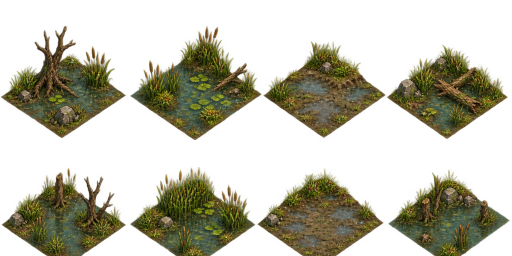
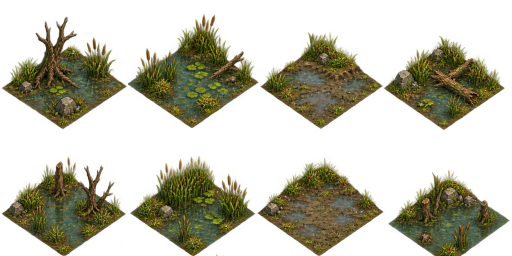
update battle scene

diff --git a/scripts/battle/BattleTileMapBuilder.cs b/scripts/battle/BattleTileMapBuilder.cs
@@ -66,6 +66,8 @@ public static class BattleTileMapBuilder
     private const int ObjectSwampAtlasSourceId = 3;
     private const int ObjectHillAtlasSourceId = 4;
     private const int ObjectMountainAtlasSourceId = 5;
+    private const int ObjectWoodAtlasSourceId = 6;
+    private const int ObjectFarmAtlasSourceId = 7;
     private const int ObjectBuildingTileCount = 3;
     private const string FloorAtlasPath = "res://assets/battle/floor/floor.png";
     private const string ObjectAtlasPath = "res://assets/battle/object/object_01.png";
@@ -74,6 +76,8 @@ public static class BattleTileMapBuilder
     private const string ObjectSwampAtlasPath = "res://assets/battle/object/swamp_01.png";
     private const string ObjectHillAtlasPath = "res://assets/battle/object/hill_01.png";
     private const string ObjectMountainAtlasPath = "res://assets/battle/object/mountain_01.png";
+    private const string ObjectWoodAtlasPath = "res://assets/battle/object/wood_01.png";
+    private const string ObjectFarmAtlasPath = "res://assets/battle/object/farm_01.png";
     private const string CastleAtlasPath = "res://assets/battle/wall/castle.png";
     private const string CastleOpenGateAtlasPath = "res://assets/battle/wall/castle_gate_open.png";
     private const string OverlayAtlasPath = "res://assets/battle/overlay/overlay.png";
@@ -286,6 +290,11 @@ public static class BattleTileMapBuilder
             return cell.MountainAtlasCoords;
         }
 
+        if (cell.Terrain == BattleTerrainType.Farm && cell.FarmAtlasCoords.X >= 0)
+        {
+            return cell.FarmAtlasCoords;
+        }
+
         var visual = cell.Structure switch
         {
             BattleStructureType.Tree => BattleObjectTileVisual.Tree,
@@ -303,13 +312,17 @@ public static class BattleTileMapBuilder
         return layerKind == BattleTileLayerKind.Object && cell.Structure == BattleStructureType.Building
             ? ObjectBuildingAtlasSourceId
             : layerKind == BattleTileLayerKind.Object && cell.Terrain == BattleTerrainType.Forest && cell.ForestAtlasCoords.X >= 0
-                ? ObjectForestAtlasSourceId
+                ? cell.ForestAtlasSourceId == ObjectWoodAtlasSourceId
+                    ? ObjectWoodAtlasSourceId
+                    : ObjectForestAtlasSourceId
             : layerKind == BattleTileLayerKind.Object && cell.Terrain == BattleTerrainType.Swamp && cell.SwampAtlasCoords.X >= 0
                 ? ObjectSwampAtlasSourceId
             : layerKind == BattleTileLayerKind.Object && cell.Terrain == BattleTerrainType.Hill && cell.HillAtlasCoords.X >= 0
                 ? ObjectHillAtlasSourceId
             : layerKind == BattleTileLayerKind.Object && cell.Terrain == BattleTerrainType.Mountain && cell.MountainAtlasCoords.X >= 0
                 ? ObjectMountainAtlasSourceId
+            : layerKind == BattleTileLayerKind.Object && cell.Terrain == BattleTerrainType.Farm && cell.FarmAtlasCoords.X >= 0
+                ? ObjectFarmAtlasSourceId
             : AtlasSourceId;
     }
 
@@ -474,6 +487,8 @@ public static class BattleTileMapBuilder
             AddObjectSwampSource(tileSet, metrics);
             AddObjectHillSource(tileSet, metrics);
             AddObjectMountainSource(tileSet, metrics);
+            AddObjectWoodSource(tileSet, metrics);
+            AddObjectFarmSource(tileSet, metrics);
         }
 
         return tileSet;
@@ -599,7 +614,23 @@ public static class BattleTileMapBuilder
         AddObjectAtlasSource(tileSet, metrics, ObjectMountainAtlasSourceId, ObjectMountainAtlasPath, "mountain");
     }
 
-    private static void AddObjectAtlasSource(TileSet tileSet, BattleAtlasMetrics metrics, int sourceId, string atlasPath, string atlasName)
+    private static void AddObjectWoodSource(TileSet tileSet, BattleAtlasMetrics metrics)
+    {
+        AddObjectAtlasSource(tileSet, metrics, ObjectWoodAtlasSourceId, ObjectWoodAtlasPath, "wood");
+    }
+
+    private static void AddObjectFarmSource(TileSet tileSet, BattleAtlasMetrics metrics)
+    {
+        AddObjectAtlasSource(tileSet, metrics, ObjectFarmAtlasSourceId, ObjectFarmAtlasPath, "farm", rows: 3);
+    }
+
+    private static void AddObjectAtlasSource(
+        TileSet tileSet,
+        BattleAtlasMetrics metrics,
+        int sourceId,
+        string atlasPath,
+        string atlasName,
+        int rows = 2)
     {
         if (!ResourceLoader.Exists(atlasPath))
         {
@@ -607,7 +638,7 @@ public static class BattleTileMapBuilder
         }
 
         var atlasTexture = GD.Load<Texture2D>(atlasPath);
-        if (atlasTexture == null || atlasTexture.GetWidth() < metrics.RegionWidth * 4 || atlasTexture.GetHeight() < metrics.RegionHeight * 2)
+        if (atlasTexture == null || atlasTexture.GetWidth() < metrics.RegionWidth * 4 || atlasTexture.GetHeight() < metrics.RegionHeight * rows)
         {
             GD.PushWarning($"Battle {atlasName} atlas could not be loaded: {atlasPath}");
             return;
@@ -619,7 +650,7 @@ public static class BattleTileMapBuilder
             TextureRegionSize = new Vector2I(metrics.RegionWidth, metrics.RegionHeight),
             UseTexturePadding = false
         };
-        for (var y = 0; y < 2; y++)
+        for (var y = 0; y < rows; y++)
         {
             for (var x = 0; x < 4; x++)
             {

diff --git a/scripts/battle/BattleSceneController.cs b/scripts/battle/BattleSceneController.cs
@@ -11158,6 +11158,7 @@ public partial class BattleSceneController : Node2D
             BattleTerrainType.Coast => BattleText("ui.battle.terrain_coast", "Coast"),
             BattleTerrainType.Hill => BattleText("ui.battle.terrain_hill", "Hill"),
             BattleTerrainType.Mountain => BattleText("ui.battle.terrain_mountain", "Mountain"),
+            BattleTerrainType.Farm => BattleText("ui.battle.terrain_farm", "Farm"),
             BattleTerrainType.Bridge => BattleText("ui.battle.terrain_bridge", "Bridge"),
             BattleTerrainType.Grass => BattleText("ui.battle.terrain_grass", "Grass"),
             _ => BattleText("ui.battle.terrain_plain", "Plain")
@@ -11330,6 +11331,7 @@ public partial class BattleSceneController : Node2D
         public int BuildingAtlasX { get; set; }
         public int BuildingAtlasY { get; set; }
         public bool HasForestObjectVisual { get; set; }
+        public int ForestAtlasSourceId { get; set; }
         public int ForestAtlasX { get; set; }
         public int ForestAtlasY { get; set; }
         public bool HasSwampObjectVisual { get; set; }
@@ -11341,6 +11343,9 @@ public partial class BattleSceneController : Node2D
         public bool HasMountainObjectVisual { get; set; }
         public int MountainAtlasX { get; set; }
         public int MountainAtlasY { get; set; }
+        public bool HasFarmObjectVisual { get; set; }
+        public int FarmAtlasX { get; set; }
+        public int FarmAtlasY { get; set; }
         public int BridgeMaxHealth { get; set; }
         public int BridgeHealth { get; set; }
 
@@ -11372,6 +11377,7 @@ public partial class BattleSceneController : Node2D
                 BuildingAtlasX = cell.BuildingAtlasCoords.X,
                 BuildingAtlasY = cell.BuildingAtlasCoords.Y,
                 HasForestObjectVisual = cell.ForestAtlasCoords.X >= 0,
+                ForestAtlasSourceId = cell.ForestAtlasSourceId,
                 ForestAtlasX = cell.ForestAtlasCoords.X,
                 ForestAtlasY = cell.ForestAtlasCoords.Y,
                 HasSwampObjectVisual = cell.SwampAtlasCoords.X >= 0,
@@ -11383,6 +11389,9 @@ public partial class BattleSceneController : Node2D
                 HasMountainObjectVisual = cell.MountainAtlasCoords.X >= 0,
                 MountainAtlasX = cell.MountainAtlasCoords.X,
                 MountainAtlasY = cell.MountainAtlasCoords.Y,
+                HasFarmObjectVisual = cell.FarmAtlasCoords.X >= 0,
+                FarmAtlasX = cell.FarmAtlasCoords.X,
+                FarmAtlasY = cell.FarmAtlasCoords.Y,
                 BridgeMaxHealth = cell.BridgeMaxHealth,
                 BridgeHealth = cell.BridgeHealth
             };
@@ -11412,6 +11421,9 @@ public partial class BattleSceneController : Node2D
             cell.ForestAtlasCoords = HasForestObjectVisual
                 ? new Vector2I(ForestAtlasX, ForestAtlasY)
                 : new Vector2I(-1, -1);
+            cell.ForestAtlasSourceId = HasForestObjectVisual
+                ? ForestAtlasSourceId == 6 ? 6 : 2
+                : -1;
             cell.SwampAtlasCoords = HasSwampObjectVisual
                 ? new Vector2I(SwampAtlasX, SwampAtlasY)
                 : new Vector2I(-1, -1);
@@ -11420,6 +11432,9 @@ public partial class BattleSceneController : Node2D
                 : new Vector2I(-1, -1);
             cell.MountainAtlasCoords = HasMountainObjectVisual
                 ? new Vector2I(MountainAtlasX, MountainAtlasY)
+                : new Vector2I(-1, -1);
+            cell.FarmAtlasCoords = HasFarmObjectVisual
+                ? new Vector2I(FarmAtlasX, FarmAtlasY)
                 : new Vector2I(-1, -1);
             cell.BridgeMaxHealth = BridgeMaxHealth;
             cell.BridgeHealth = BridgeHealth;

diff --git a/scripts/battle/BattleMapData.cs b/scripts/battle/BattleMapData.cs
@@ -18,7 +18,8 @@ public enum BattleTerrainType
     Coast,
     Bridge,
     Hill,
-    Mountain
+    Mountain,
+    Farm
 }
 
 public enum BattleScenarioType
@@ -91,9 +92,11 @@ public sealed class BattleCellData
     public bool WoodenFenceFlipHorizontally { get; set; }
     public Vector2I BuildingAtlasCoords { get; set; }
     public Vector2I ForestAtlasCoords { get; set; } = new(-1, -1);
+    public int ForestAtlasSourceId { get; set; } = -1;
     public Vector2I SwampAtlasCoords { get; set; } = new(-1, -1);
     public Vector2I HillAtlasCoords { get; set; } = new(-1, -1);
     public Vector2I MountainAtlasCoords { get; set; } = new(-1, -1);
+    public Vector2I FarmAtlasCoords { get; set; } = new(-1, -1);
     public int BridgeMaxHealth { get; set; }
     public int BridgeHealth { get; set; }
 
@@ -368,11 +371,12 @@ public sealed class BattleMapData
             var atlas = layer.GetCellAtlasCoords(grid);
             var sourceId = layer.GetCellSourceId(grid);
             var cell = GetCell(grid.X, grid.Y);
-            if (sourceId == 2)
+            if (sourceId is 2 or 6)
             {
                 cell.Terrain = BattleTerrainType.Forest;
                 cell.Structure = BattleStructureType.None;
                 cell.ForestAtlasCoords = new Vector2I(Mathf.Clamp(atlas.X, 0, 3), Mathf.Clamp(atlas.Y, 0, 1));
+                cell.ForestAtlasSourceId = sourceId;
                 return;
             }
 
@@ -397,6 +401,14 @@ public sealed class BattleMapData
                 cell.Terrain = BattleTerrainType.Mountain;
                 cell.Structure = BattleStructureType.None;
                 cell.MountainAtlasCoords = new Vector2I(Mathf.Clamp(atlas.X, 0, 3), Mathf.Clamp(atlas.Y, 0, 1));
+                return;
+            }
+
+            if (sourceId == 7)
+            {
+                cell.Terrain = BattleTerrainType.Farm;
+                cell.Structure = BattleStructureType.None;
+                cell.FarmAtlasCoords = new Vector2I(Mathf.Clamp(atlas.X, 0, 3), Mathf.Clamp(atlas.Y, 0, 2));
                 return;
             }
 
@@ -562,6 +574,7 @@ public sealed class BattleMapData
             if (cell.Terrain != BattleTerrainType.Forest)
             {
                 cell.ForestAtlasCoords = new Vector2I(-1, -1);
+                cell.ForestAtlasSourceId = -1;
             }
             if (cell.Terrain != BattleTerrainType.Swamp)
             {
@@ -574,6 +587,10 @@ public sealed class BattleMapData
             if (cell.Terrain != BattleTerrainType.Mountain)
             {
                 cell.MountainAtlasCoords = new Vector2I(-1, -1);
+            }
+            if (cell.Terrain != BattleTerrainType.Farm)
+            {
+                cell.FarmAtlasCoords = new Vector2I(-1, -1);
             }
 
             if (cell.Terrain == BattleTerrainType.Bridge)

diff --git a/docs/PHASE4_BATTLE_KICKOFF_ZH.md b/docs/PHASE4_BATTLE_KICKOFF_ZH.md
@@ -424,9 +424,11 @@
 - `assets/battle/object/object_01.png` 的第 5 格（atlas 索引 `4`）為 `WoodenFence`；`ObjectLayer` 讀取該圖塊時應建立可阻擋移動、可由 Worker 移除的木柵欄。
 - `assets/battle/object/building_01.png` 是 `ObjectLayer` 的 building atlas source，規格為 `1 row x 3 frame`、每格 `128x128`；三個 frame 都讀成可駐守的 `Building` 結構，runtime rebuild / battle quick save/load 需保留選到的 building frame。
 - `assets/battle/object/forest_01.png` 是 `ObjectLayer` source ID `2` 的 forest atlas，規格為 `2 rows x 4 frame`、每格 `128x128`；八個 frame 都讀成 `Forest` 地形並保留選到的變體，供 WYSIWYG 場景編輯與 runtime rebuild / battle quick save/load 使用。
+- `assets/battle/object/wood_01.png` 是 `ObjectLayer` source ID `6` 的第二組 forest atlas，規格為 `2 rows x 4 frame`、每格 `128x128`；規則與 `forest_01.png` 相同，但 runtime rebuild / battle quick save/load 會額外保留圖集來源，避免將 wood 變體換回第一組森林圖。
 - `assets/battle/object/swamp_01.png` 是 `ObjectLayer` source ID `3` 的 swamp atlas，規格為 `2 rows x 4 frame`、每格 `128x128`；八個 frame 都讀成 `Swamp` 地形並保留選到的變體，移動消耗仍為 2，供 WYSIWYG 場景編輯與 runtime rebuild / battle quick save/load 使用。
 - `assets/battle/object/hill_01.png` 是 `ObjectLayer` source ID `4` 的 hill atlas，規格為 `2 rows x 4 frame`、每格 `128x128`；八個 frame 都讀成可通行的 `Hill` 地形，移動消耗為 2，供 WYSIWYG 場景編輯與 runtime rebuild / battle quick save/load 使用。
 - `assets/battle/object/mountain_01.png` 是 `ObjectLayer` source ID `5` 的 mountain atlas，規格為 `2 rows x 4 frame`、每格 `128x128`；八個 frame 都讀成不可通行、不可起火的 `Mountain` 地形，供 WYSIWYG 場景編輯與 runtime rebuild / battle quick save/load 使用。
+- `assets/battle/object/farm_01.png` 是 `ObjectLayer` source ID `7` 的 farm atlas，規格為 `3 rows x 4 frame`、每格 `128x128`；十二個 frame 都讀成可通行、移動消耗為 1 的 `Farm` 地形，不提供建築防禦或森林 Hide，供 WYSIWYG 場景編輯與 runtime rebuild / battle quick save/load 使用。
 - `Building` 格只可容納一般人類 battle team，攻城梯、衝車、投石車與補給車等攻城器不可進入；駐守時承受的直接傷害降低 `20%`；火焰傷害不受減免，且建築格正在燃燒時防禦加成暫時失效。騎兵不可對建築格發動或穿越 Charge，格子資訊會顯示建築防禦狀態。
 - runtime 會將 Building 從固定 `ObjectLayer` 提升至與單位共用的 `BattleDepthLayer`，以 `grid.X + grid.Y` 排序：位於建築後方的單位會被遮住，位於前方或同格駐守的單位會顯示在建築前。
 - `BattleScene.tscn` 的 `ObjectLayer` 在 `(6, 12)` 放置 `building_01` frame 0，作為戰場內可直接測試的建築防禦據點。
